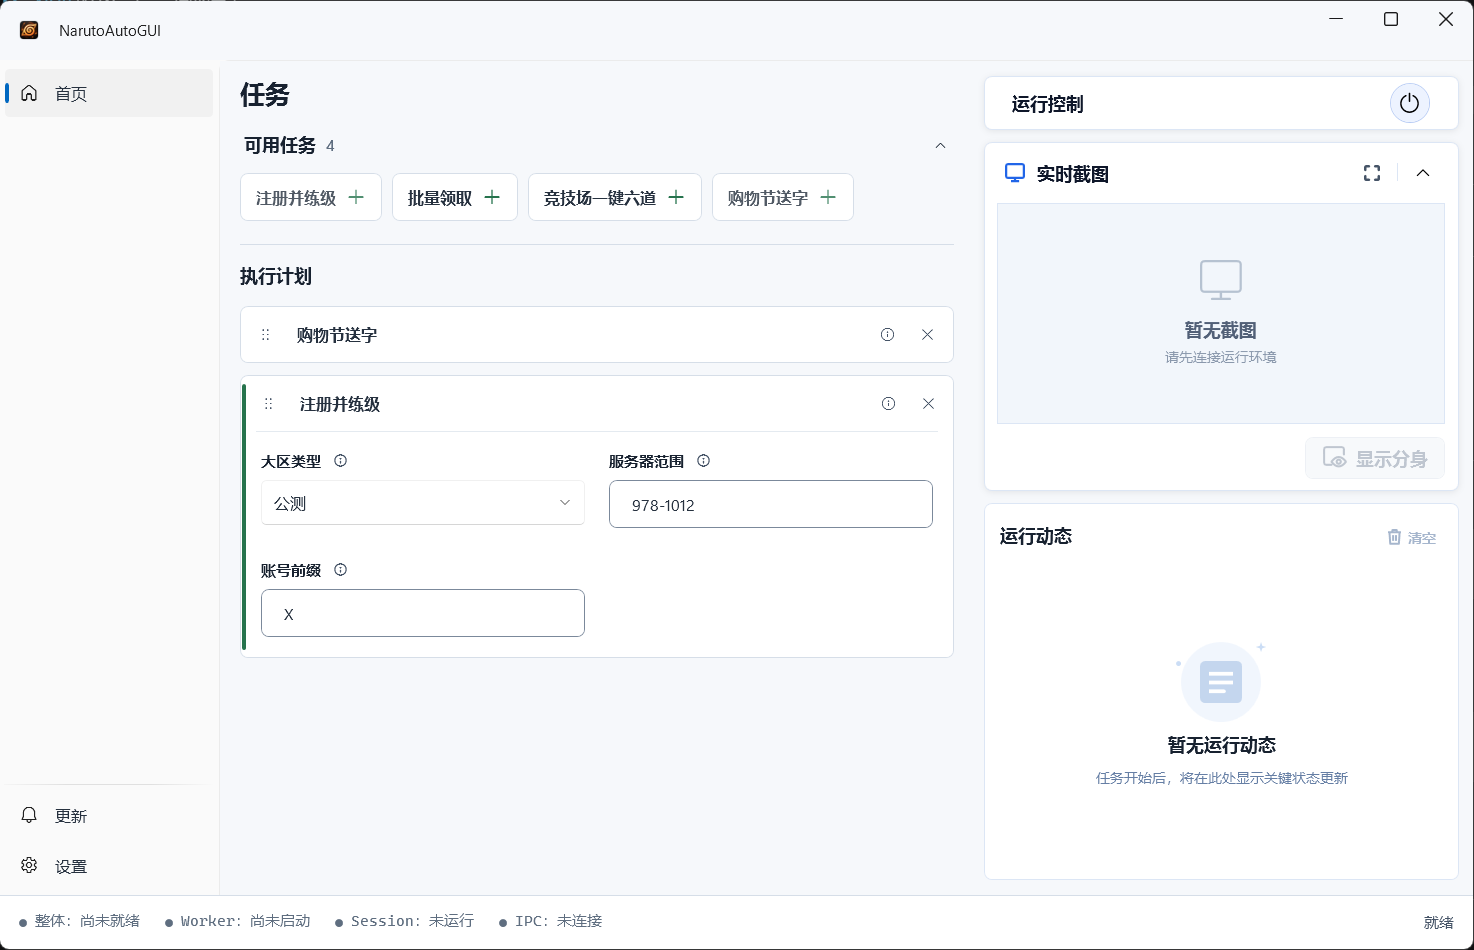
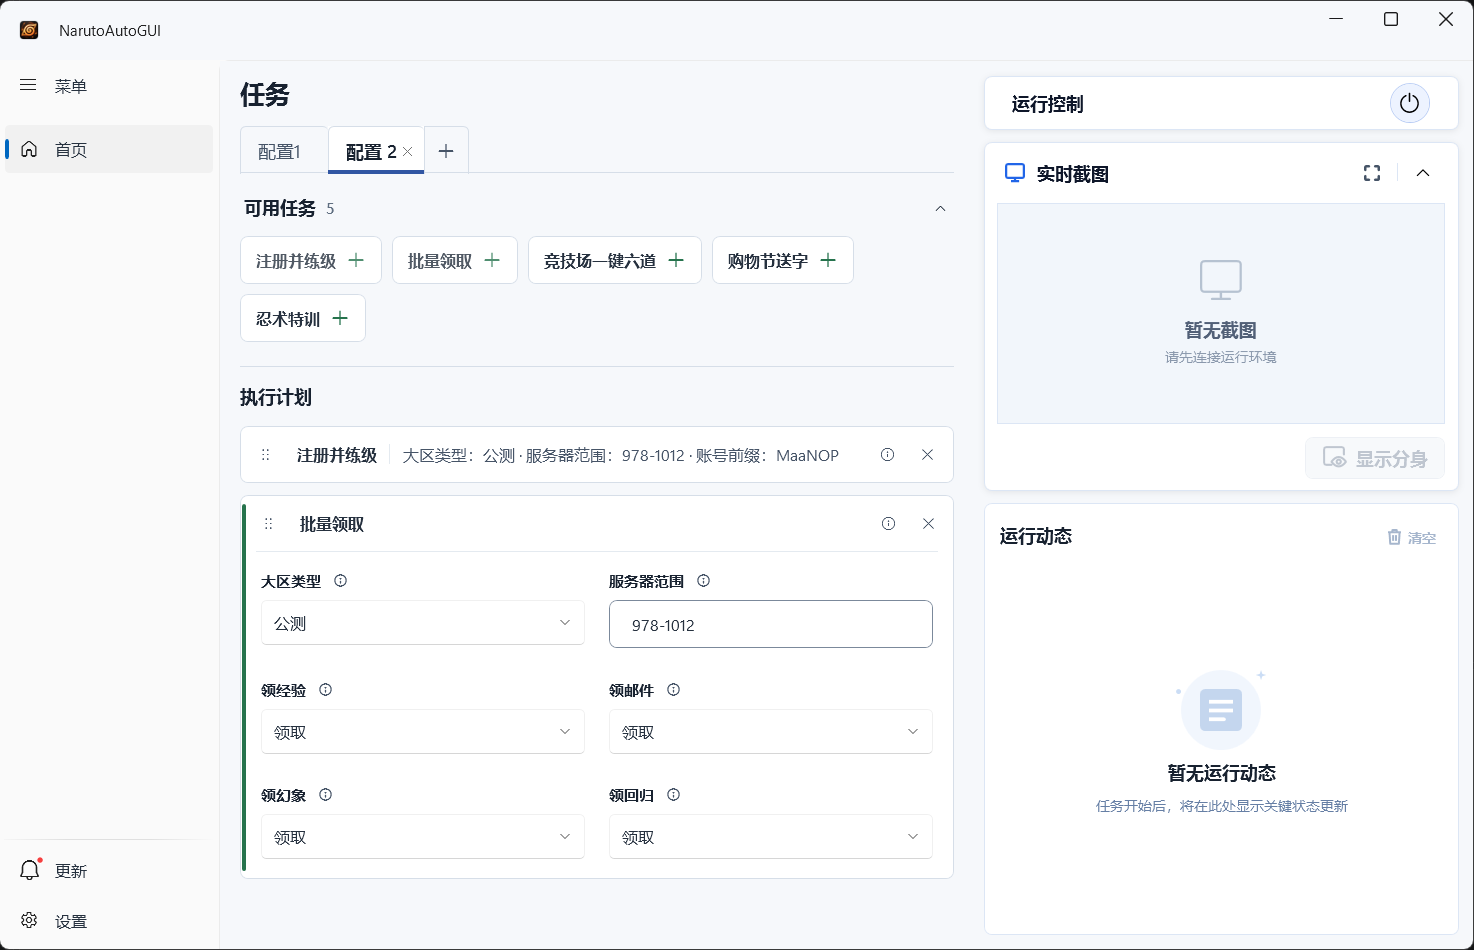
docs: 更新 readme

diff --git a/README.md b/README.md
@@ -13,7 +13,7 @@
 ## 功能
 
 - **桌面分身**：创建和管理独立运行环境，隐藏分身后任务仍可继续。
-- **任务配置**：通过 Tab 管理多份独立配置，提供任务选择、参数配置和顺序执行。
+- **任务配置**：支持多份独立任务配置，通过 Tab 切换，每份配置分别保存任务列表、执行顺序和参数。
 - **运行监控**：展示任务动态和游戏画面预览，支持放大查看。
 - **完整包更新**：提供更新检查、版本说明、下载与安装入口。
 
